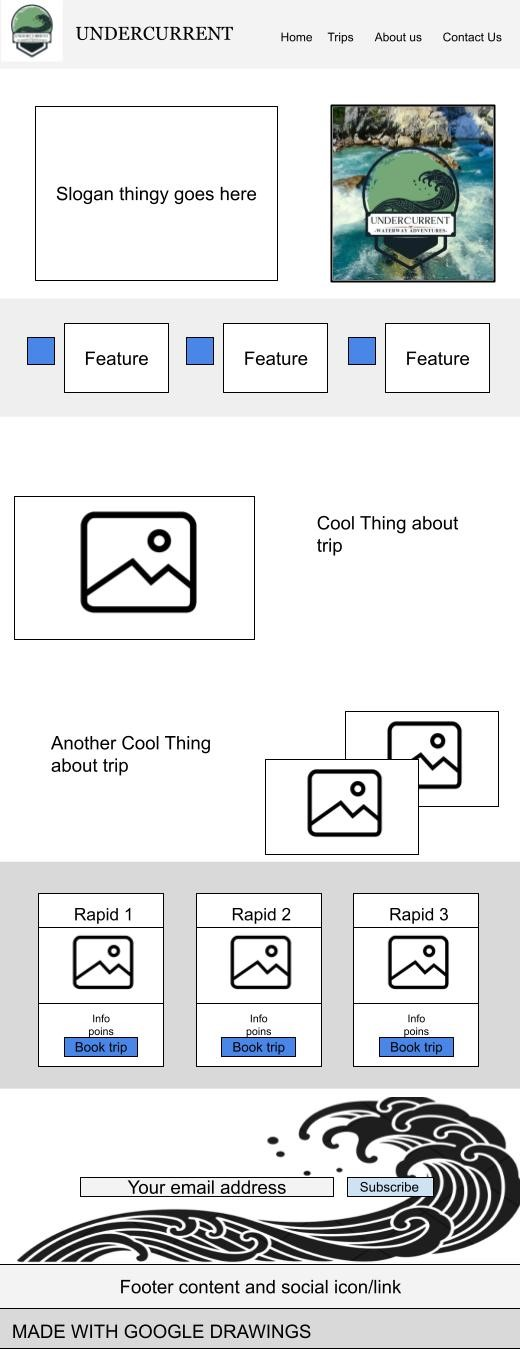
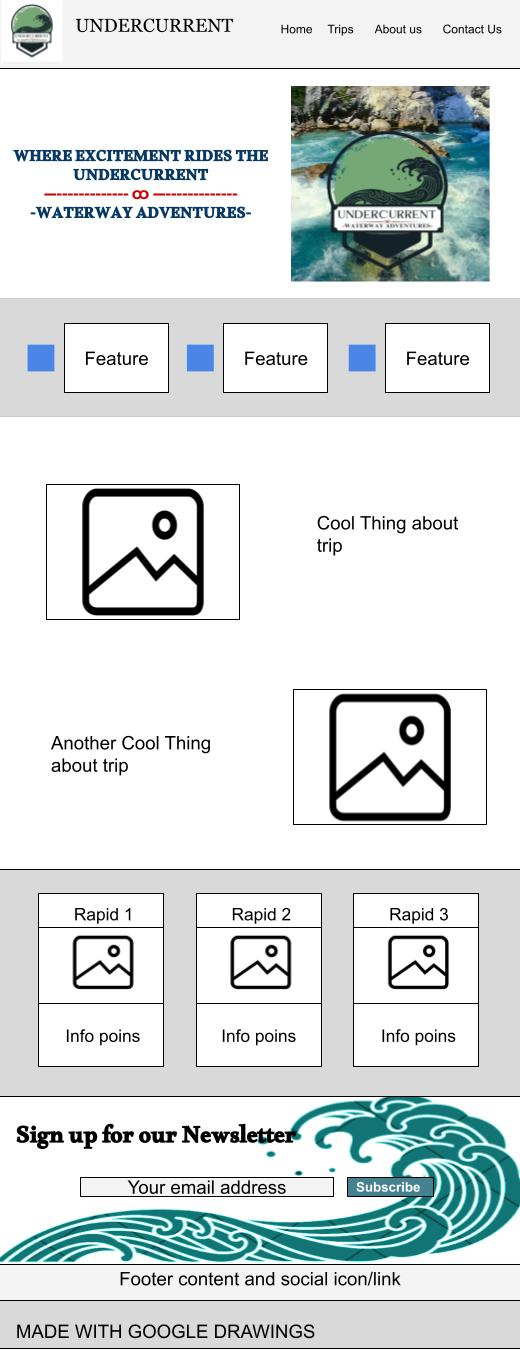
added images and added trip description tables

diff --git a/wwr/trips.html b/wwr/trips.html
@@ -4,18 +4,18 @@
   <link rel="stylesheet" href="styles/rafting.css">
   <meta charset="utf-8">
   <meta name="viewport" content="width=device-width,initial-scale=1.0">
-  <title>Undercurrent | schedule a trip</title>
+  <title>Undercurrent | schedule a tdip</title>
   <meta name="description" content=" 3 trips with pictures and information about each">
   <meta name="author" content="Emily Walker">
 </head>
 <body>
     <header>
         <img class="logo img" src="logos/logo.jpg" alt="Logo" width="64">
-        <h1><strong>UNDERCURRENT</strong></h1>
+        <h1><stdong>UNDERCURRENT</stdong></h1>
         <nav>
             <ul class="navigation">
                 <li><a href="home.html">Home</a></li>
-                <li><a href="trips.html">Trips</a></li>
+                <li><a href="trips.html">trips</a></li>
                 <li><a href="about.html">About Us</a></li>
                 <li><a href="contact.html">Contact Us</a></li>
             </ul>
@@ -24,29 +24,106 @@
     <main>
 
         <h1>differt trips and there details</h1>
+        <div class="sliders">
+            <div class="trip_slide">
+                <h2> 8 mile Whitewater Trip</h2>
+                <img src="images/Home/rapid_lvl.jpg" alt="Rapid lvl 1" width="200">
+                <p>Sightseers will enjoy pristine views of Yellowstone’s mountains, 
+                    a tdue geothermal wonder at the terraced La Duke Hot Springs, 
+                    and other notable sights like the Devil’s Slide and local wildlife.</p>
+                    <table>
+                        <tr>
+                            <th>overview</th>
+                        </tr>
+                        <tr>
+                            <td>2 hours</td>
+                        </tr>
+                        <tr>
+                            <td>class 1</td>
+                         <tr>
+                        </tr>
+                            <td>Saftey equipment provded</td>
+                        </tr>
+                        <tr>
+                            <td> lunch is provided </td>
+                        </tr>
+                        <tr>
+                            <td> Ages 13 and Up</td>
+                        </tr>
+                    </table>
+            </div>
 
-        <h2> trip 1</h2>
-        <p>img here</p>
-            <th>table</th>
+            <div class="trip_slide">
+                <h2> 18 mile Whitewater Trip</h2>
+                <img src="images/Home/rapids_lvl2.png" alt="Rapid lvl 2" width="200">
+                <p>whitewater rafting through the incredible scenery of the northern boundary of 
+                    Yellowstone National Park.through historic Yankee Jim Canyon and into the 
+                    majestic Tom Miner Basin.</p>
+                    <table>
+                        <tr>
+                            <th>overview</th>
+                        </tr>
+                        <tr>
+                            <td>6 hours</td>
+                        </tr>
+                        <tr>
+                            <td>class 2 and 3 options</td>
+                         <tr>
+                        </tr>
+                            <td>Saftey equipment provded</td>
+                        </tr>
+                        <tr>
+                            <td> lunch is provided </td>
+                        </tr>
+                        <tr>
+                            <td>Ages 13 and Up</td>
+                        </tr>
+                    </table>   
+            </div>
 
-        <h2> trip 2</h2>
-        <p>img here</p>
-            <th>table</th>
-
-        <h2> trip 3</h2>
-        <p>img here</p>
-            <th>table</th>
-
-            <h3>call to action</h3>
-            <p> contact us to book your trip today</p>
-
+            <div class="trip_slide">
+                <h2> Canyon run</h2>
+                <img src="images/Home/level3_rapid.jpg" alt="Rapid lvl 3" width="200">
+                <table>
+                    <tr>
+                        <th>overview</th>
+                    </tr>
+                    <tr>
+                        <td>3 hours</td>
+                    </tr>
+                    <tr>
+                        <td>6 miles</td>
+                    </tr>
+                    <tr>
+                        <td>class 2 and 3 options</td>
+                     <tr>
+                    </tr>
+                        <td>Saftey equipment provded</td>
+                    </tr>
+                    <tr>
+                        <td> lunch is provided </td>
+                    </tr>
+                    <tr>
+                        <td>ages 16+ only</td>
+                    </tr>
+                </table>
+            </div>
+               
+        </div>
+                <h3>call to action</h3>
+                <p> contact us to book your trip today</p>
+        
+             
             <div class="booking">
                 <button onclick="window.location.href='contact.html';">Contact Us Now</button>
-            </div>
+               
 
     </main>
     <footer>
         ©2024 Undercurrent|Emily Walker
+
+        <a href="site-plan-rafting.html">Site plan and wireframes</a>
+
         <nav class="sociallinks">
             <a href="www.facebook.com">
                 <img src="images/logos/facebook.png" alt="facebook" width="24">

diff --git a/wwr/home.html b/wwr/home.html
@@ -36,17 +36,17 @@
 
                 <div class="bullet-item"> <img class="roundsqr" src="images/Home/roundsqr.png" width="35"> </div>
                     <div class="bullet-item"> 
-                    <p>Lorem, ipsum dolor sit amet consectetur adipisicing elit. Rem, error!</p>
+                    <p>I will add real stuff here-</p>
                 </div>
 
                 <div class="bullet-item"> <img class="roundsqr" src="images/Home/roundsqr.png" width="35"> </div>
                     <div class="bullet-item"> 
-                    <p>Lorem, ipsum dolor sit amet consectetur adipisicing elit. Rem, error!</p>
+                    <p>I will add real stuff here-</p>
                 </div>
 
                 <div class="bullet-item"> <img class="roundsqr" src="images/Home/roundsqr.png" width="35"> </div>
                     <div class="bullet-item"> 
-                    <p>Lorem, ipsum dolor sit amet consectetur adipisicing elit. Rem, error!</p>
+                    <p>I will add real stuff here-</p>
                 </div>
             </div>
         </div>
@@ -58,11 +58,11 @@
                     </div>
                 
                     <div class="box">
-                        <p>Lorem ipsum dolor, sit amet consectetur adipisicing elit. Hic voluptate itaque pariatur voluptatibus unde qui voluptas quis. Nemo reprehenderit maxime, at vero mollitia nobis fugiat!</p>
+                        <p>I will add real stuff here- consectetur adipisicing elit. Hic voluptate itaque pariatur voluptatibus unde qui voluptas quis. Nemo reprehenderit maxime, at vero mollitia nobis fugiat!</p>
                     </div>
                 
                     <div class="box">
-                        <p>Lorem ipsum dolor sit amet, consectetur adipisicing elit. Quisquam accusamus facere quas nisi illum, neque id perspiciatis. Illo eveniet quis quod nostrum culpa esse voluptates.</p>
+                        <p>I will add real stuff here-  consectetur adipisicing elit. Quisquam accusamus facere quas nisi illum, neque id perspiciatis. Illo eveniet quis quod nostrum culpa esse voluptates.</p>
                     </div>
                 
                     <div class="box">
@@ -80,19 +80,25 @@
             <div class="line">
                 <div class="rapid_lvl">
                     <h3>🟢 Rapid Level 1</h3>
-                    <p>and img here</p>
+                    <hr>
+                    <img src="images/Home/rapid_lvl.jpg" alt="level 1 rapids" width="334">
+                    <hr>
                     <p>Experience the thrill with minimal risk! Level 1 rapids have few obstructions, all of which are easily visible and avoidable with a bit of training. Perfect for beginners.</p>
                 </div>
         
                 <div class="rapid_lvl">
                     <h3>🔵 Rapid Level 2</h3>
-                    <p>and img here</p>
+                    <hr>
+                    <img src="images/Home/rapids_lvl2.png" alt="level 1 rapids" width="334">
+                    <hr>
                     <p>Step up the excitement! Level 2 rapids feature straightforward routes with wide, clear channels that don't require scouting. Occasional maneuvering might be needed, but trained paddlers can easily navigate around rocks and medium-sized waves. Swimmers are rarely injured, and while group assistance is helpful, it's seldom necessary.</p>
                 </div>
         
                 <div class="rapid_lvl">
                     <h3>🟠 Rapid Level 3</h3>
-                    <p>and img here</p>
+                    <hr>
+                    <img src="images/Home/level3_rapid.jpg" alt="level 1 rapids" width="334">
+                    <hr>
                     <p>Get ready for an adrenaline rush! Level 3 rapids boast moderate, irregular waves that can swamp an open canoe. You'll need to execute complex maneuvers in fast currents and tight passages. Injuries are rare, and self-rescue is usually easy, but it's recommended to have group assistance on hand.</p>
                 </div>
             </div>
@@ -105,13 +111,16 @@
             </div>
         </div>
         <div class="newsletter">
-            <p> add this later
+            <p> Adding a Newsletter option here later
             </p>
         </div>
         
     </main>  
     <footer>
-        ©2024 Undercurrent|Emily Walker
+        ©2024 Undercurrent|Emily Walker 
+
+        <a href="site-plan-rafting.html">Site plan and wireframes</a>
+
         <nav class="sociallinks">
             <a href="www.facebook.com">
                 <img src="images/logos/facebook.png" alt="facebook" width="24">

diff --git a/wwr/styles/rafting.css b/wwr/styles/rafting.css
@@ -192,7 +192,7 @@ figcaption {
 }
 
 .Contact_hero {
-    background-image: url("images/logos/contact_hero.jpg");
+    background-image: url("../logos/contact_hero.jpg");
     height: 400px;
     width: 100%;
     background-position: top left;
@@ -322,6 +322,7 @@ figcaption {
     display: flex;
     text-align: center;
 }
+
 /*Call to action*/
 .action-call{
     background-color: #c4c4c4;
@@ -340,9 +341,9 @@ figcaption {
 }
 
 .rapid_lvl {
-	width: 335px;
+	width: 341px;
 	height: 531px;
-	padding: 3px 2px 8px 3px;
+	padding: 3px 2px 2px 3px;
 	background: #FFFFFF;
 	color: #444444;
 	border-radius: 24px 24px 24px 24px;
@@ -350,6 +351,14 @@ figcaption {
 	font-size: 15px;
 	line-height: 1.5;
 	text-align: center;
+}
+
+.rapid_lvl img{
+    display: flex;
+    align-items: flex-start;
+    width: 335px;
+    height: 220px;
+    object-fit: cover;
 }
 
 .sinker{
@@ -395,6 +404,22 @@ button{
     background-size: cover;
     position: relative;
 }
+
+/*Trips Page*/
+
+.sliders{
+    display: flex;
+    flex-direction: column;
+    justify-content: center space-between;
+}
+.trip_slide{
+    display: flex; /* ? */
+
+
+}
+
+
+
 
 
 /*Footer*/

diff --git a/wwr/site-plan-rafting.html b/wwr/site-plan-rafting.html
@@ -64,9 +64,14 @@
         </nav>
         <h2>wireframes</h2>
         <h3>Homepage Wireframes</h3>
-        <img src="https://byui-cse.github.io/wdd130-ww-course/images/wrr/wwr-wireframe-home-home.png" alt="" width="700">
+        <img src="images/homepage_wireframe.jpg" alt="" width="700">
         <h3>About Us Page</h3>
-        <img src="https://byui-cse.github.io/wdd130-ww-course/images/wrr/about-us.png" alt="" width="700">
+        <img src="https://byui-cse.github.io/wdd130-ww-course/images/wwr/wwr-wireframe-aboutus.png" alt="" width="700">
+        <h3>Contact us page</h3>
+        <img src="https://byui-cse.github.io/wdd130-ww-course/images/wwr/wwr-wireframe-aboutus.png" alt="" width="700">
+        <h3>Trips page</h3>
+        <img src="images/Trips_wireframe.jpg" alt="" width="700">
+        
 
     </main>
     <footer>

diff --git a/wwr/about.html b/wwr/about.html
@@ -77,12 +77,14 @@
     </main>
     <footer>
         ©2024 Undercurrent|Emily Walker
+        <a href="site-plan-rafting.html">Site plan and wireframes</a>
+
         <nav class="sociallinks">
             <a href="www.facebook.com">
                 <img src="images/logos/facebook.png" alt="facebook" width="24">
             </a>
             <a href="www.x.com">
-                <img src="images/logos/twitter.png"X" width="20">
+                <img src="images/logos/twitter.png" alt="X" width="20">
             </a>
             <a href="www.instagram.com">
                 <img src="images/logos/insta.png" alt="Instagram" width="24">

diff --git a/wwr/contact.html b/wwr/contact.html
@@ -79,6 +79,9 @@
     </main>
     <footer>
         ©2024 Undercurrent | Emily Walker
+
+        <a href="site-plan-rafting.html">Site plan and wireframes</a>
+
         <nav class="sociallinks">
             <a href="https://www.facebook.com">
                 <img src="../logos/facebook.png" alt="Facebook" width="24">
